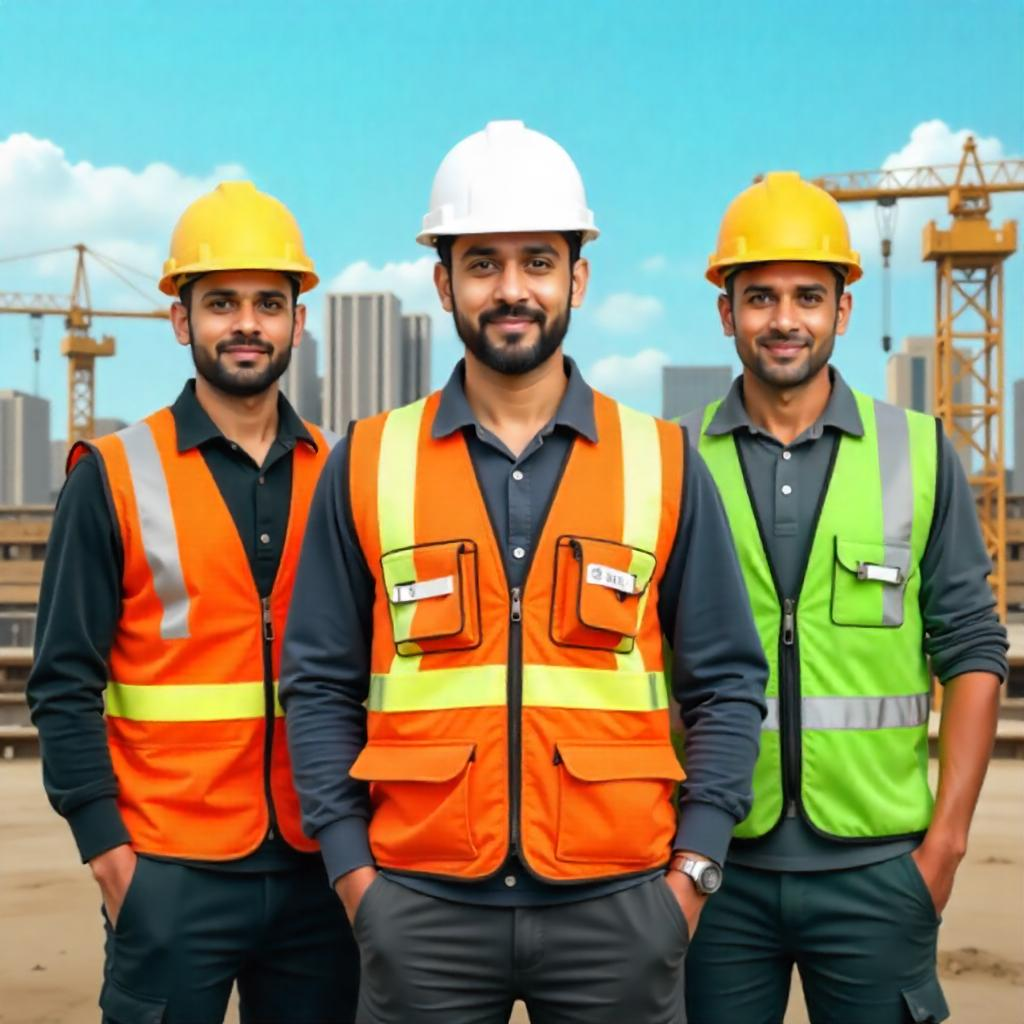
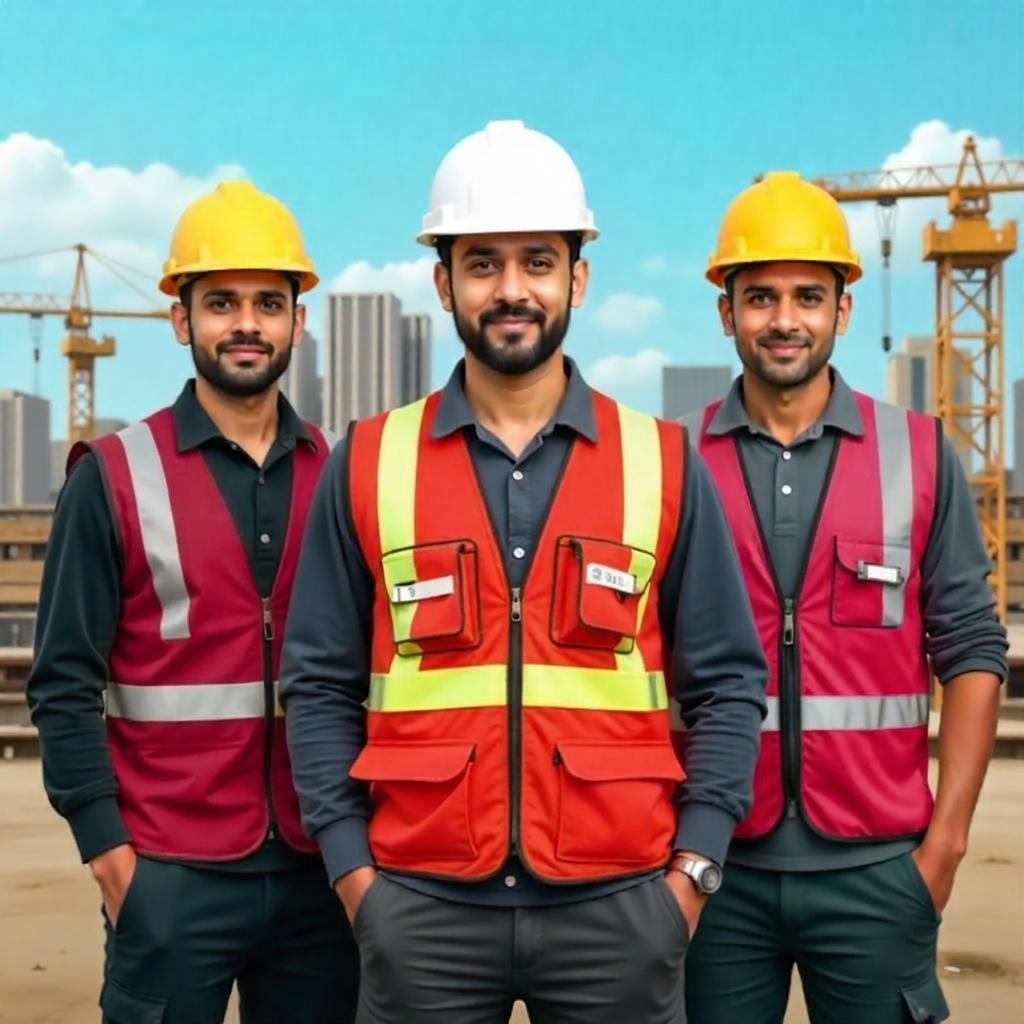
update site

Changed region(s): [[0.0625, 0.375, 0.9375, 0.875], [0.9062, 0.9062, 0.9688, 0.9688]]

diff --git a/src/components/pages/about-us/OurValue.tsx b/src/components/pages/about-us/OurValue.tsx
@@ -13,7 +13,7 @@ const OurValue = () => {
           <p className="text-sm">
             Recognizing the significant challenge of providing professional
             services, and the complexities faced by Qatari organizations in
-            sourcing legally compliant professionals, the Bridge the Gap team
+            sourcing legally compliant professionals, the Vita Recruitment team
             has committed to shouldering this responsibility with our utmost
             dedication.
           </p>
@@ -23,7 +23,7 @@ const OurValue = () => {
 
           <h6 className="font-semibold text-primary-bridge">Vision</h6>
           <p className="text-center text-sm">
-            Bridge the Gap aims to be the leading manpower service provider in
+            Vita Recruitment aims to be the leading manpower service provider in
             Qatar, ensuring that businesses have access to skilled talent while
             adhering to local regulations and standards.
           </p>
@@ -33,7 +33,7 @@ const OurValue = () => {
 
           <h6 className="font-semibold text-primary-bridge">Mission</h6>
           <p className="text-center text-sm">
-            At Bridge The Gap, our mission is to save you from the hassle of
+            At Vita Recruitment, our mission is to save you from the hassle of
             searching for qualified manpower. We provide legally covered
             professionals to secure your business and simplify your operations
             with expert consulting and support aimed at enhancing your business

diff --git a/src/components/pages/about-us/CompanyOverview.tsx b/src/components/pages/about-us/CompanyOverview.tsx
@@ -17,7 +17,7 @@ const CompanyOverview = () => {
           </p>
 
           <p>
-            Bridge the Gap is a family where values truly matter. We have
+            Vita Recruitment is a family where values truly matter. We have
             passionate people who make this company great. What we are proud of
             in our staff is the quality of the people we have in this company.
             As long as we are keen on that, we look forward to being a great
@@ -25,7 +25,7 @@ const CompanyOverview = () => {
           </p>
 
           <p>
-            When you look across the Bridge the Gap group of companies, you will
+            When you look across the Vita Recruitment group of companies, you will
             find that we cover a wide range of regions in Qatar. We are involved
             in every industry and market. If you need a permanent manpower
             solution, we assist in identifying your requirements. If your

diff --git a/src/components/pages/sectors/OurRange.tsx b/src/components/pages/sectors/OurRange.tsx
@@ -2,12 +2,12 @@ const OurRange = () => {
   return (
     <section className="bg-secondary-bridge py-20">
       <div className="container space-y-5">
-        <h3 className="text-center text-4xl font-bold">
+        <h3 className="text-center text-4xl font-bold text-white">
           Our Range of Professional Services
         </h3>
 
-        <p className="mx-auto max-w-[700px] text-center text-lg">
-          Bridge The Gap covers all industries and fields. Companies that
+        <p className="mx-auto max-w-[700px] text-center text-lg text-white">
+          Vita Recruitment covers all industries and fields. Companies that
           require heavy qualifying training for their staff, companies that
           require a very long-term contract for their workers, and even
           companies that need a team of limited professionals for quite a

diff --git a/src/components/pages/homepage/Subsidiaries.tsx b/src/components/pages/homepage/Subsidiaries.tsx
@@ -12,11 +12,11 @@ const Subsidiaries = () => {
         </div>
 
         <p className="mx-auto max-w-[950px] text-center text-white">
-          Find the right staffing support for your needs. Bridge the Gap handles
+          Find the right staffing support for your needs. Vita Recruitment handles
           documents, housing, insurance, pay, and training when required. Choose
           the best fit for your business.
           {/* Detect the staffing service type you need and find your favorite team.
-          Bridge the Gap covers required documents, stays, insurance, salaries,
+          Vita Recruitment covers required documents, stays, insurance, salaries,
           and qualifying training when needed. Pick the formula that suits your
           business&apos;s way to success. */}
         </p>

diff --git a/src/components/Header.tsx b/src/components/Header.tsx
@@ -25,7 +25,7 @@ const Header = () => {
           <Image
             className="h-auto w-[100px]"
             src="/logo.png"
-            alt="Bridge The Gap Logo"
+            alt="Vita Recruitment Logo"
             height={65}
             width={150}
           />
@@ -55,7 +55,7 @@ const Header = () => {
                   <Image
                     className="h-auto w-[100px]"
                     src="/logo.png"
-                    alt="Bridge The Gap Logo"
+                    alt="Vita Recruitment Logo"
                     height={65}
                     width={150}
                   />

diff --git a/src/components/Footer.tsx b/src/components/Footer.tsx
@@ -22,7 +22,7 @@ const Footer = () => {
             <Image
               className="h-auto w-[150px]"
               src="/logo.png"
-              alt="Bridge The Gap Logo"
+              alt="Vita Recruitment Logo"
               height={65}
               width={150}
             />
@@ -179,7 +179,7 @@ const Footer = () => {
       </div>
 
       <div className="my-10 text-center">
-        © {currentYear} Bridge The Gap. All rights reserved.
+        © {currentYear} Vita Recruitment. All rights reserved.
       </div>
     </footer>
   );

diff --git a/src/components/pages/homepage/Improve.tsx b/src/components/pages/homepage/Improve.tsx
@@ -6,7 +6,7 @@ const Improve = () => {
           Improve Your Business Performance
         </h2>
         <p className="mx-auto max-w-[580px] text-center">
-          At Bridge the Gap, we specialize in delivering tailored manpower
+          At Vita Recruitment, we specialize in delivering tailored manpower
           solutions backed by decades of expertise. We have significantly
           boosted the performance and growth of numerous Qatari organizations by
           providing them with skilled, dependable professionals. Discover how a

diff --git a/src/components/pages/homepage/InputOutput.tsx b/src/components/pages/homepage/InputOutput.tsx
@@ -10,7 +10,7 @@ const InputOutput = () => {
             Inputs Shape the Outputs
           </h3>
           <p className="text-white">
-            With more than ten years of experience, Bridge the Gap has
+            With more than ten years of experience, Vita Recruitment has
             effectively supported various sectors in Qatar by transforming their
             contributions into enhanced results and improved performance. Share
             your business needs with us, and we will offer the expert guidance

diff --git a/src/components/pages/about-us/Subsidiaries.tsx b/src/components/pages/about-us/Subsidiaries.tsx
@@ -9,7 +9,7 @@ const Subsidiaries = () => {
 
         <p className="mx-auto max-w-[950px] text-center text-lg">
           Identify the staffing service type you need and find your ideal team.
-          Bridge The Gap covers all necessary documentation, accommodations,
+          Vita Recruitment covers all necessary documentation, accommodations,
           insurance, salaries, and qualifying training when required. Choose the
           formula that aligns with your business&apos;s path to success.
         </p>

diff --git a/tailwind.config.ts b/tailwind.config.ts
@@ -50,12 +50,12 @@ export default {
         primary: {
           DEFAULT: "hsl(var(--primary))",
           foreground: "hsl(var(--primary-foreground))",
-          bridge: "#046938",
+          bridge: "#C12026",
         },
         secondary: {
           DEFAULT: "hsl(var(--secondary))",
           foreground: "hsl(var(--secondary-foreground))",
-          bridge: "#8BC646",
+          bridge: "#D53E0F",
         },
         tertiary: {
           bridge: "#FBAF1B",

diff --git a/src/components/pages/logistics/LogisticsPrivileges.tsx b/src/components/pages/logistics/LogisticsPrivileges.tsx
@@ -9,7 +9,7 @@ const LogisticsPrivileges = () => {
     <section className="bg-[#E3F1D0] py-20">
       <div className="container">
         <h2 className="mb-10 text-center text-3xl font-bold">
-          Privileges Bridge The Gap adds to your logistics services staffing
+          Privileges Vita Recruitment adds to your logistics services staffing
         </h2>
 
         <div className="grid grid-cols-1 gap-10 md:grid-cols-2 lg:grid-cols-3 xl:grid-cols-6">

diff --git a/src/components/pages/oil-gas/OilGasPrivileges.tsx b/src/components/pages/oil-gas/OilGasPrivileges.tsx
@@ -9,7 +9,7 @@ const OilGasPrivileges = () => {
     <section className="bg-[#E3F1D0] py-20">
       <div className="container">
         <h2 className="mb-10 text-center text-3xl font-bold">
-          Privileges Bridge The Gap adds to your oil and gas staffing
+          Privileges Vita Recruitment adds to your oil and gas staffing
         </h2>
 
         <div className="grid grid-cols-1 gap-10 md:grid-cols-2 lg:grid-cols-3 xl:grid-cols-6">
